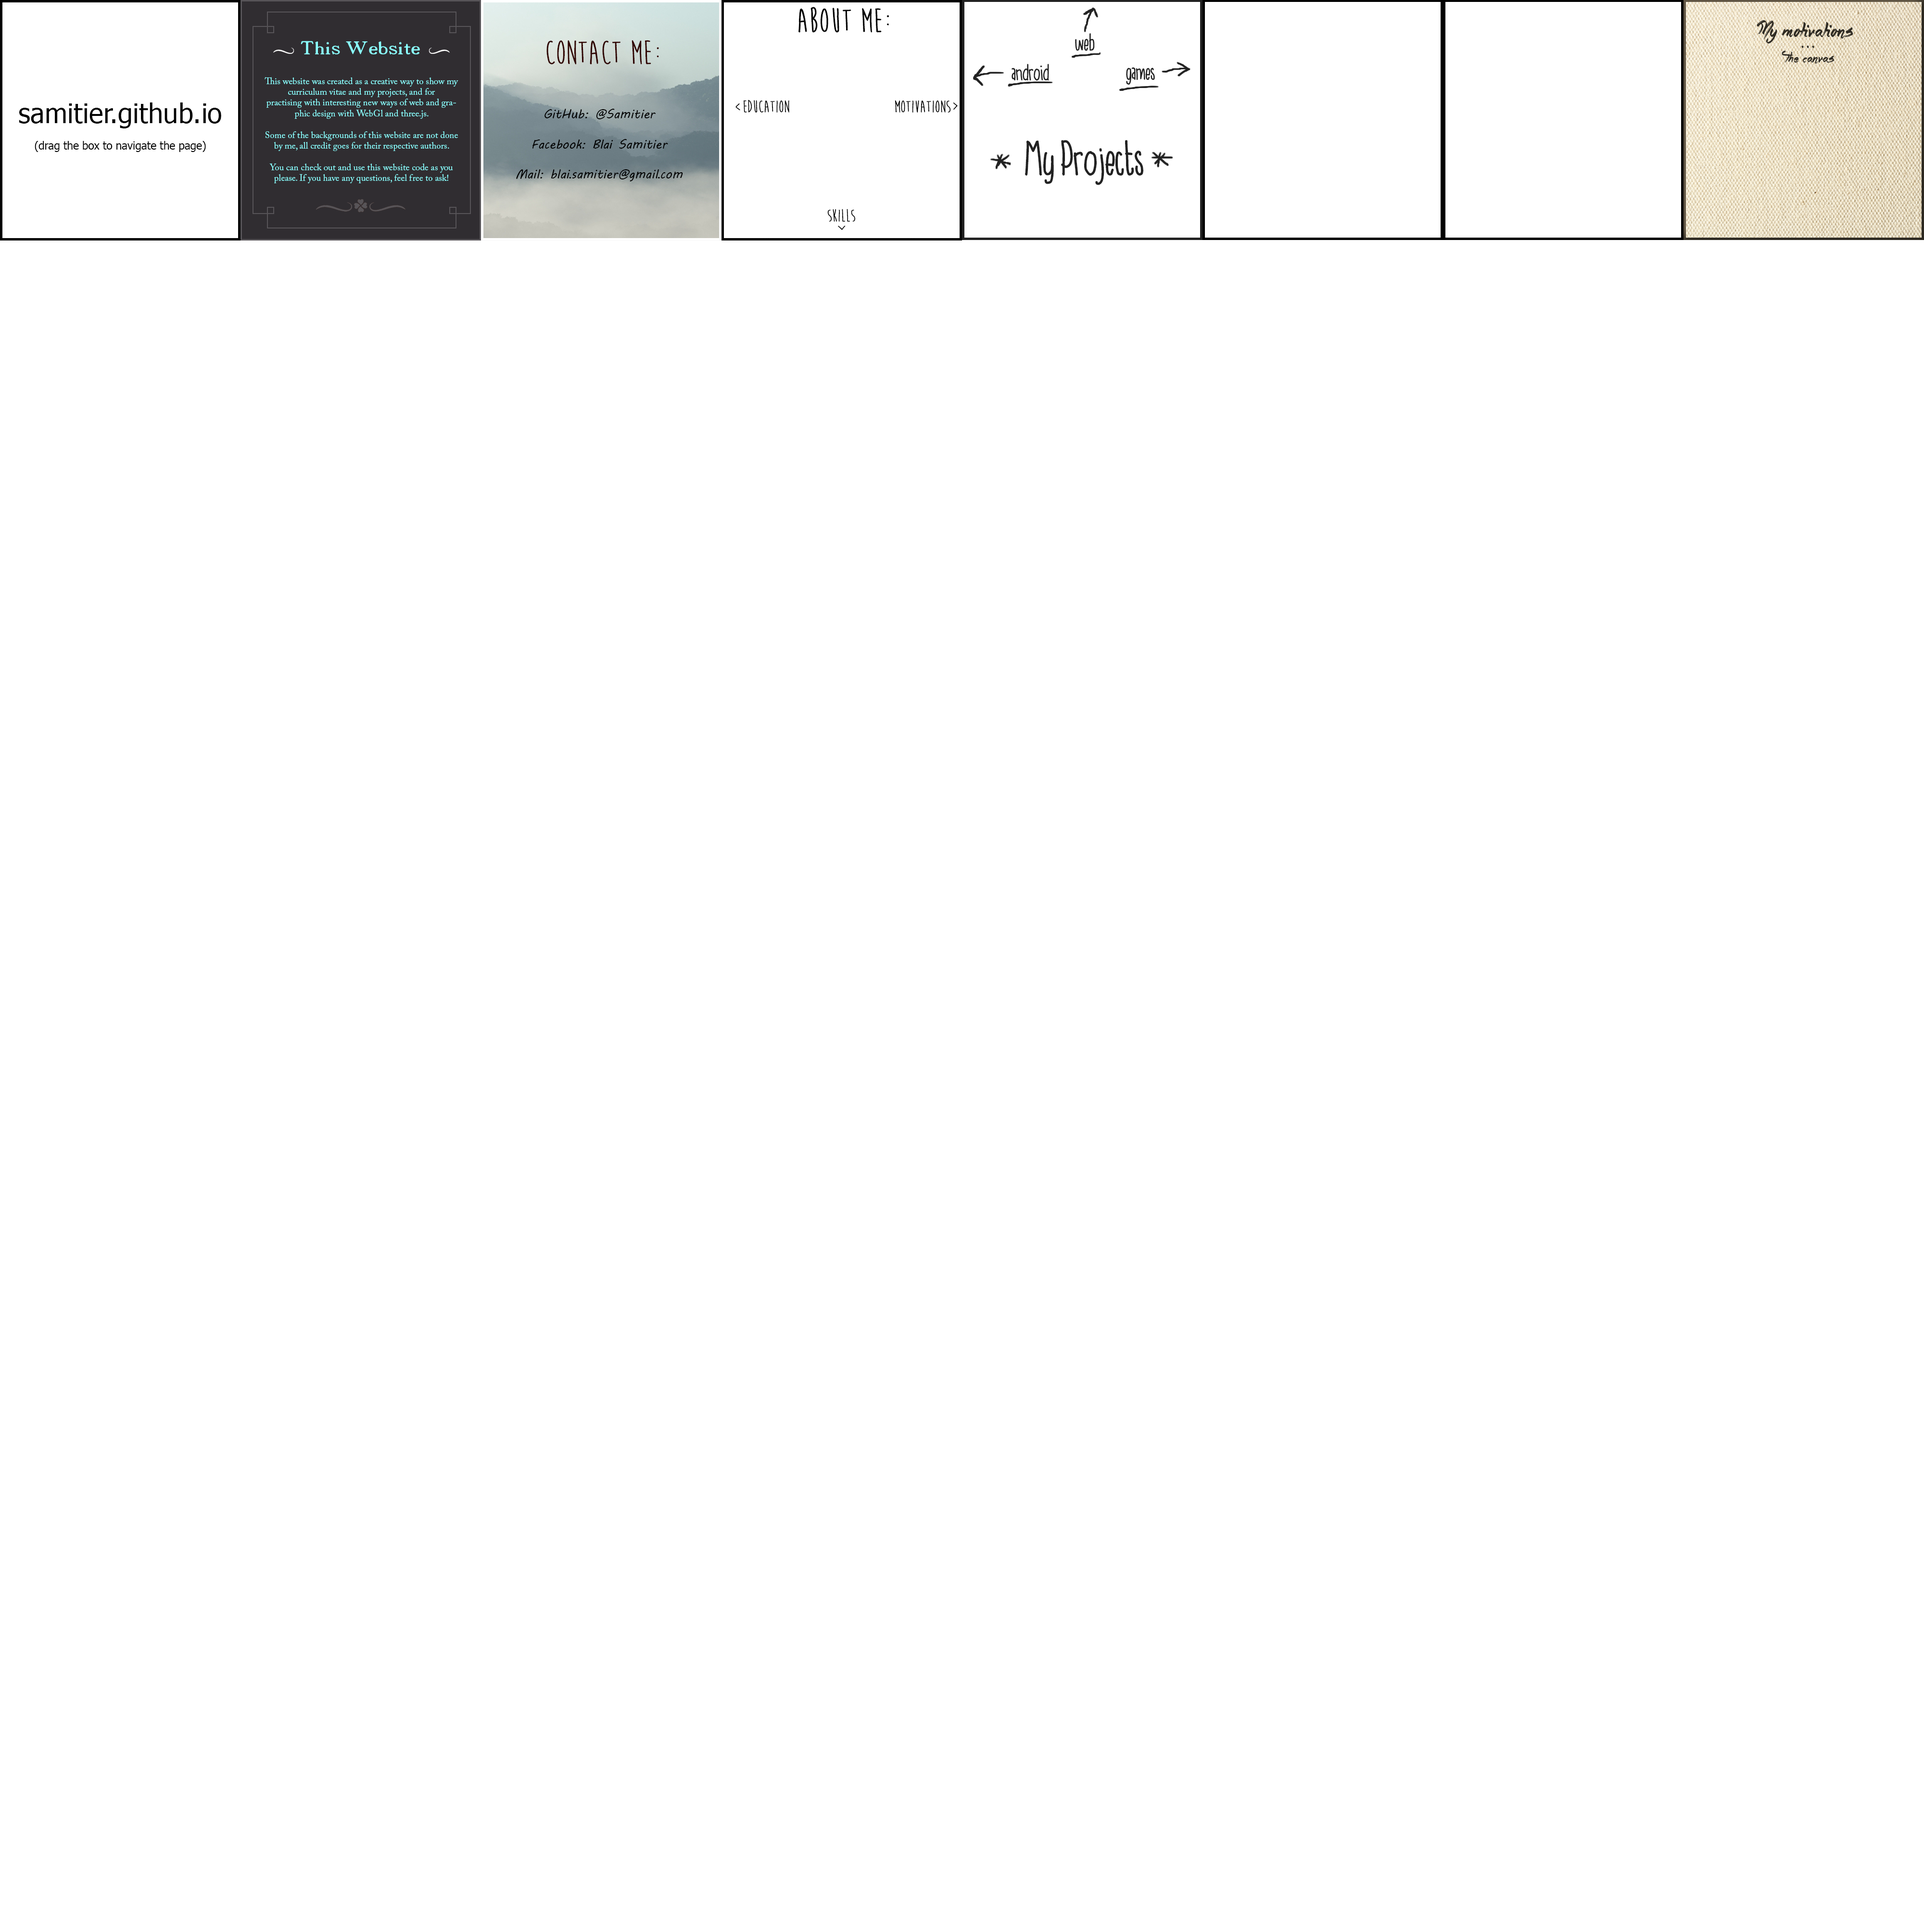
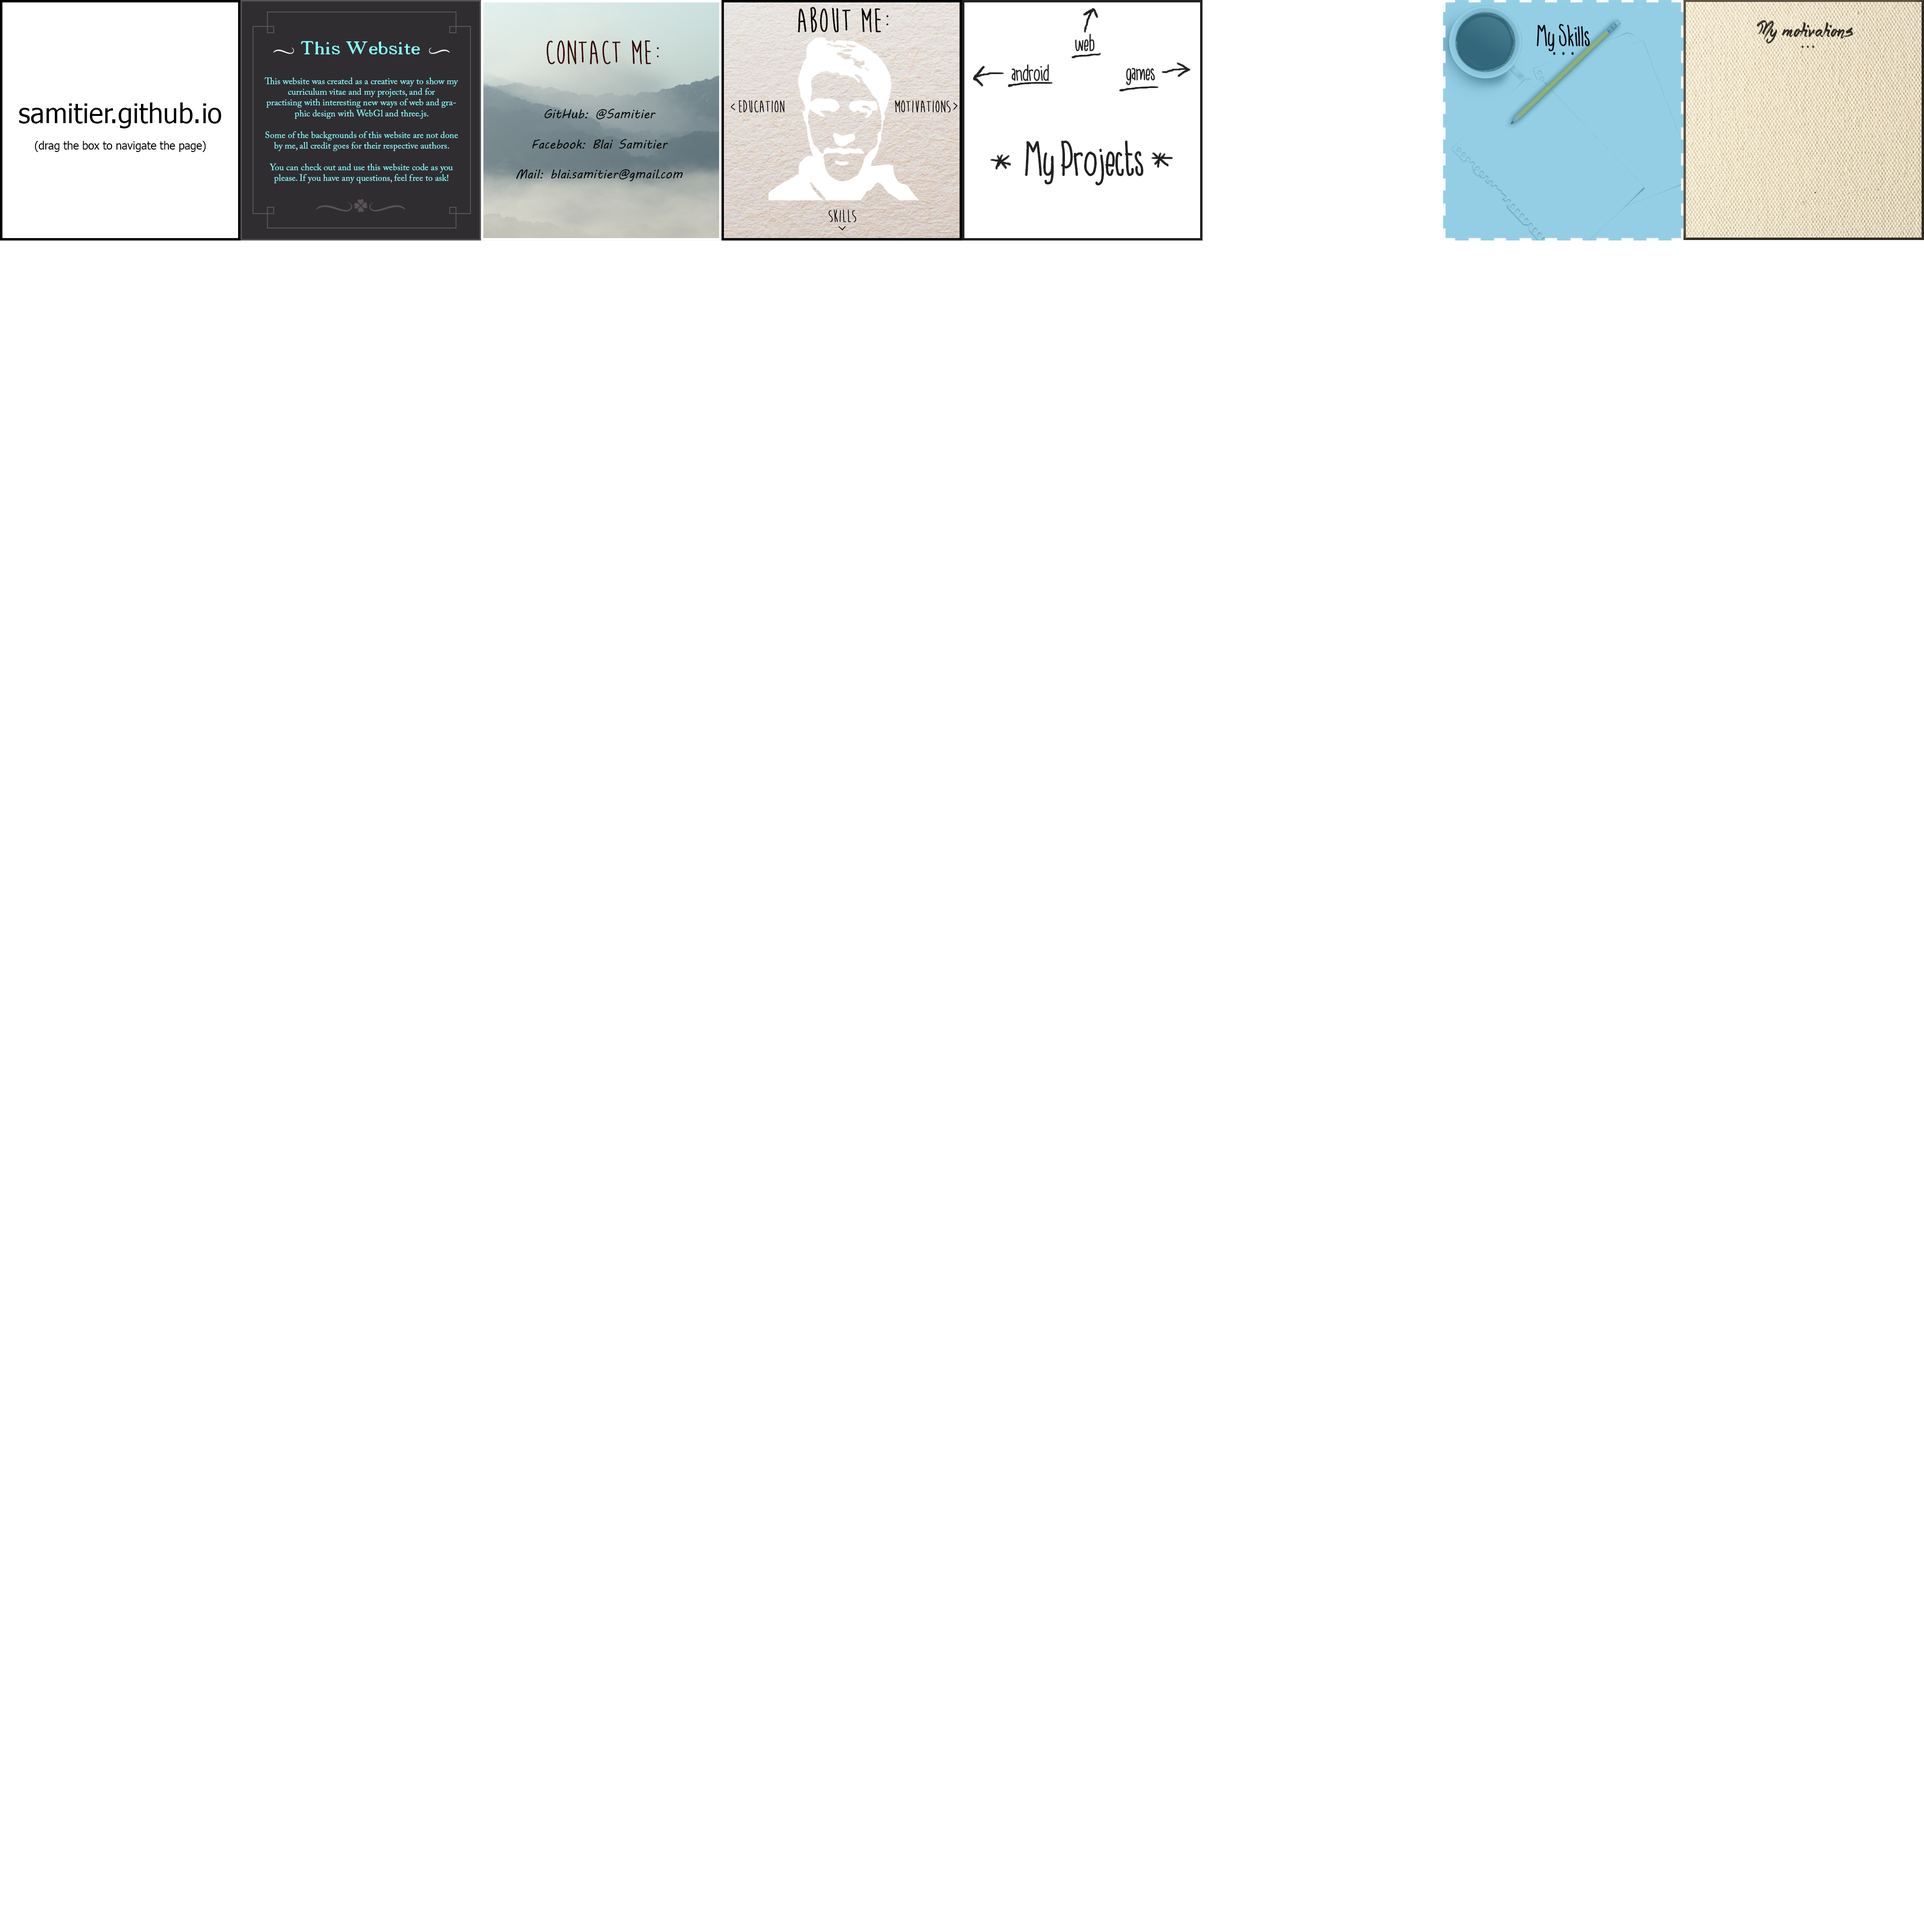
aded studies page

Changed region(s): [[0.75, 0.0, 0.875, 0.125], [0.375, 0.0, 0.5, 0.125]]

diff --git a/js/pages.js b/js/pages.js
@@ -3,7 +3,7 @@ var uv     = { main : [new THREE.Vector2(0, .875), new THREE.Vector2(.125, .875)
                contact : [new THREE.Vector2(.250, .875), new THREE.Vector2(.375, .875), new THREE.Vector2(.375, 1),new THREE.Vector2(.250, 1)],
                me : [new THREE.Vector2(.375, .875), new THREE.Vector2(.500, .875), new THREE.Vector2(.500, 1),new THREE.Vector2(.375, 1)],
                projects : [new THREE.Vector2(.5, .875), new THREE.Vector2(.625, .875), new THREE.Vector2(.625, 1),new THREE.Vector2(.5, 1)],
-               education : [new THREE.Vector2(.625, .875), new THREE.Vector2(.75, .875), new THREE.Vector2(.75, 1),new THREE.Vector2(.625, 1)],
+               education : [new THREE.Vector2(.6251, .875), new THREE.Vector2(.7499, .875), new THREE.Vector2(.7499, 1),new THREE.Vector2(.6251, 1)],
                skills : [new THREE.Vector2(.75, .875), new THREE.Vector2(.875, .875), new THREE.Vector2(.875, 1),new THREE.Vector2(.75, 1)],
                motivations : [new THREE.Vector2(.875, .875), new THREE.Vector2(1, .875), new THREE.Vector2(1, 1),new THREE.Vector2(.875, 1)]
 
@@ -15,7 +15,8 @@ var bkgContact = THREE.ImageUtils.loadTexture( 'img/bkg/bkgcontact.png');
 var bkgAboutMe = THREE.ImageUtils.loadTexture( 'img/bkg/bkgAboutMe.png');
 var bkgProjects = THREE.ImageUtils.loadTexture( 'img/bkg/bkgProjects.png');
 var bkgMotivations = THREE.ImageUtils.loadTexture( 'img/bkg/bkgMotivations.png');
-var bkgProv = THREE.ImageUtils.loadTexture( 'img/bkg/bkg222.png');
+var bkgSkills = THREE.ImageUtils.loadTexture( 'img/bkg/bkg222.png');
+var bkgEducation = THREE.ImageUtils.loadTexture( 'img/bkg/bkgEducation.png');
 
 
 
@@ -24,7 +25,7 @@ var navs = {   main:      {top : "projects",bottom : "me",   left : "website", r
                contact:   {top : "main",    bottom : "main", left : "main",    right: "main",     front: "contact", background:bkgContact},
                me:        {top : "main",    bottom : "skills", left : "education",    right: "motivations",     front: "me",      background:bkgAboutMe},
                projects:  {top : "main",    bottom : "main", left : "main",    right:"main",      front: "projects",background:bkgProjects},
-               education: {top : "main",    bottom : "main", left : "main",    right:"me",      front: "education",background:bkgProv},
-               skills:    {top : "me",    bottom : "main", left : "main",    right:"main",      front: "skills",   background:bkgProv},
+               education: {top : "main",    bottom : "main", left : "main",    right:"me",      front: "education",background:bkgEducation},
+               skills:    {top : "me",    bottom : "main", left : "main",    right:"main",      front: "skills",   background:bkgSkills},
                motivations:{top : "main",   bottom : "main", left : "me",    right:"main",      front: "motivations",  background:bkgMotivations}
 }
